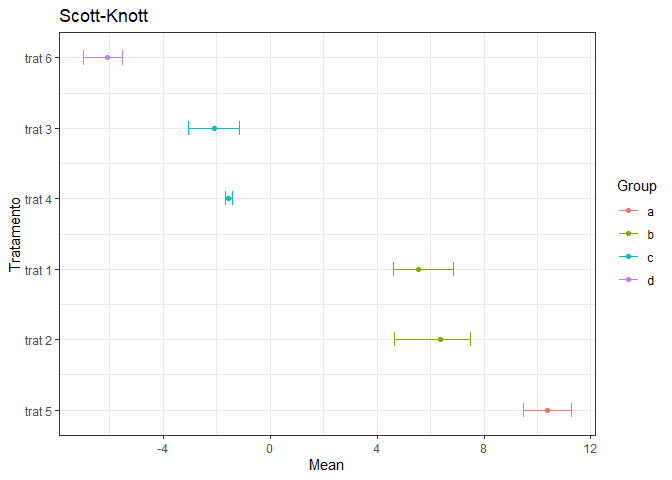
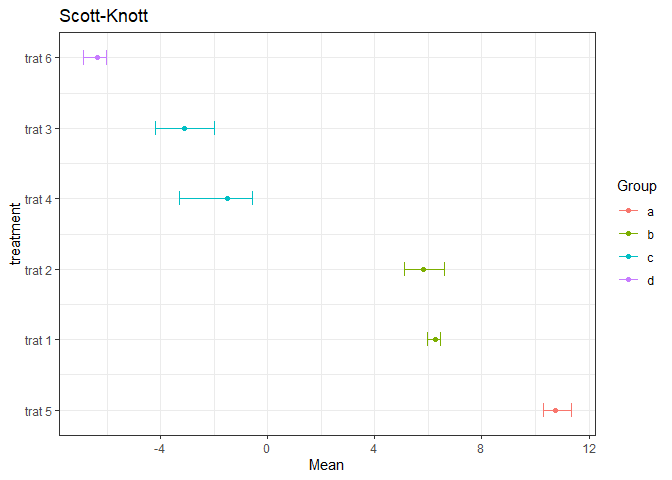
04.11.2021

diff --git a/README.md b/README.md
@@ -27,31 +27,31 @@ This is a basic example which shows you how to solve a common problem:
 library(USK)
 ## basic example code
 taus=c(4,4,-4,-4,9,-9)
-Tratamento<-as.factor(rep(c(paste("trat",seq(1:length(taus)))),3))
-erro<-rnorm(3*length(taus),0,1)
-y<-2+taus+erro
+treatment<-as.factor(rep(c(paste("trat",seq(1:length(taus)))),3))
+error<-rnorm(3*length(taus),0,1)
+y<-2+taus+error
 y[round(runif(1,min=1,max=length(y)),0)]<-NA
-dados<-data.frame(y,Tratamento)
+dataset<-data.frame(y,treatment)
 
-plot_usk(usktest(y~Tratamento,dados,ANOVA = T))
+plot_usk(usktest(y~treatment,dataset,ANOVA = T))
 #> [1] "##########################ANOVA###########################"
 #>             Df Sum Sq Mean Sq F value   Pr(>F)    
-#> Tratamento   5  515.2   103.0   93.81 1.22e-08 ***
-#> Residuals   11   12.1     1.1                     
+#> treatment    5  625.4  125.07   146.4 1.12e-09 ***
+#> Residuals   11    9.4    0.85                     
 #> ---
 #> Signif. codes:  0 '***' 0.001 '**' 0.01 '*' 0.05 '.' 0.1 ' ' 1
 #> 1 observation deleted due to missingness
 #> [1] "#######################Scott-Knott########################"
 #> # A tibble: 6 x 5
-#> # Groups:   Tratamento [6]
-#>   Tratamento Group  Mean   min   max
-#>   <fct>      <fct> <dbl> <dbl> <dbl>
-#> 1 trat 5     a     10.4   9.47 11.3 
-#> 2 trat 2     b      6.38  4.66  7.50
-#> 3 trat 1     b      5.53  4.62  6.87
-#> 4 trat 4     c     -1.57 -1.67 -1.43
-#> 5 trat 3     c     -2.07 -3.06 -1.15
-#> 6 trat 6     d     -6.07 -6.97 -5.52
+#> # Groups:   treatment [6]
+#>   treatment Group  Mean   min    max
+#>   <fct>     <fct> <dbl> <dbl>  <dbl>
+#> 1 trat 5    a     10.7  10.3  11.3  
+#> 2 trat 1    b      6.28  5.98  6.45 
+#> 3 trat 2    b      5.81  5.10  6.61 
+#> 4 trat 4    c     -1.52 -3.30 -0.552
+#> 5 trat 3    c     -3.09 -4.18 -2.00 
+#> 6 trat 6    d     -6.37 -6.87 -6.01
 ```
 
 <img src="man/figures/README-example-1.png" width="90%" />
